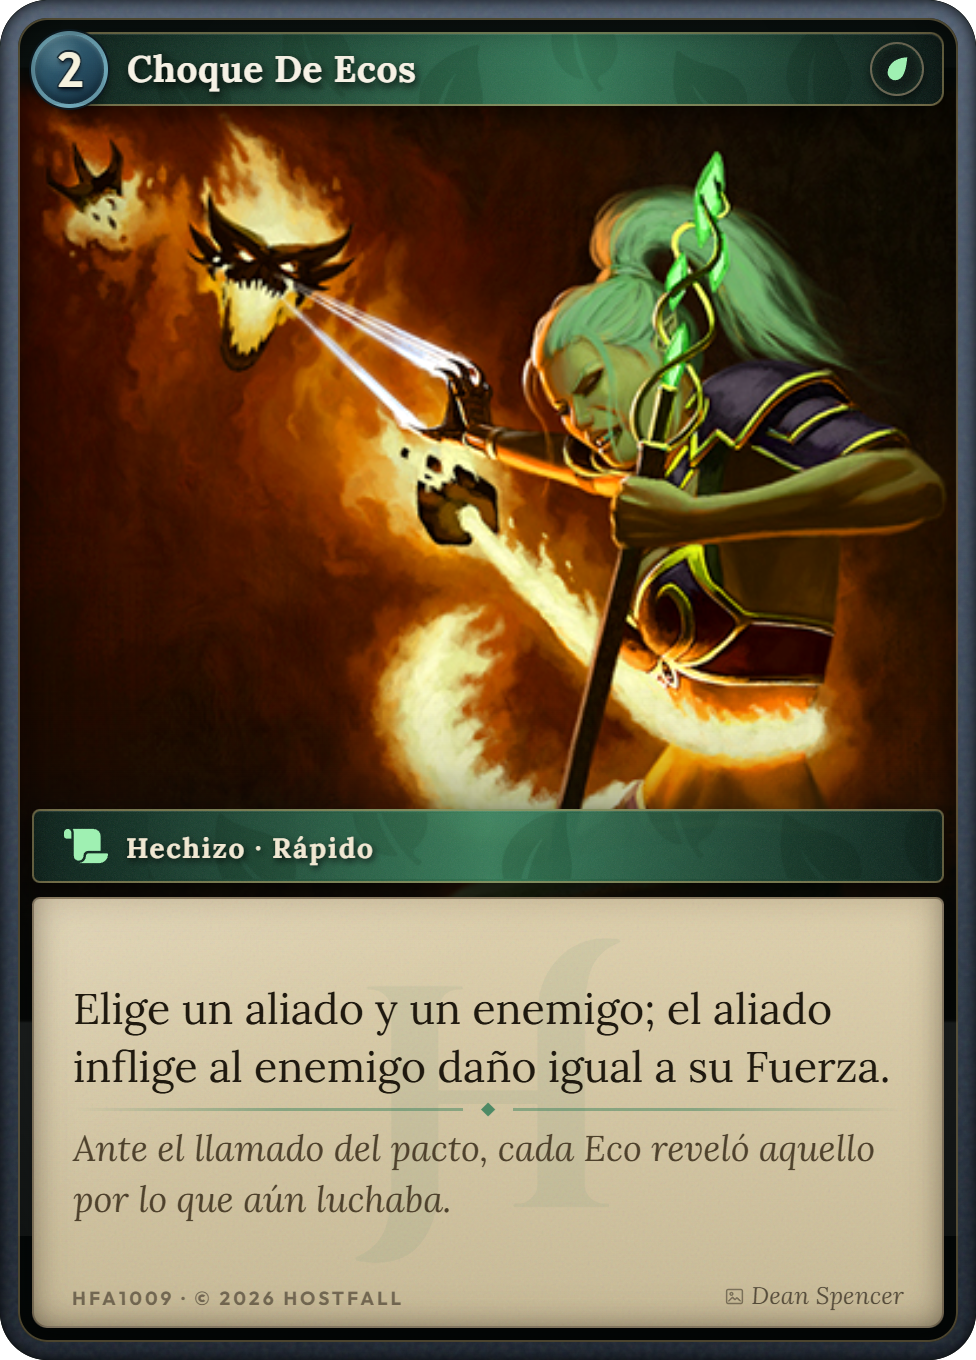
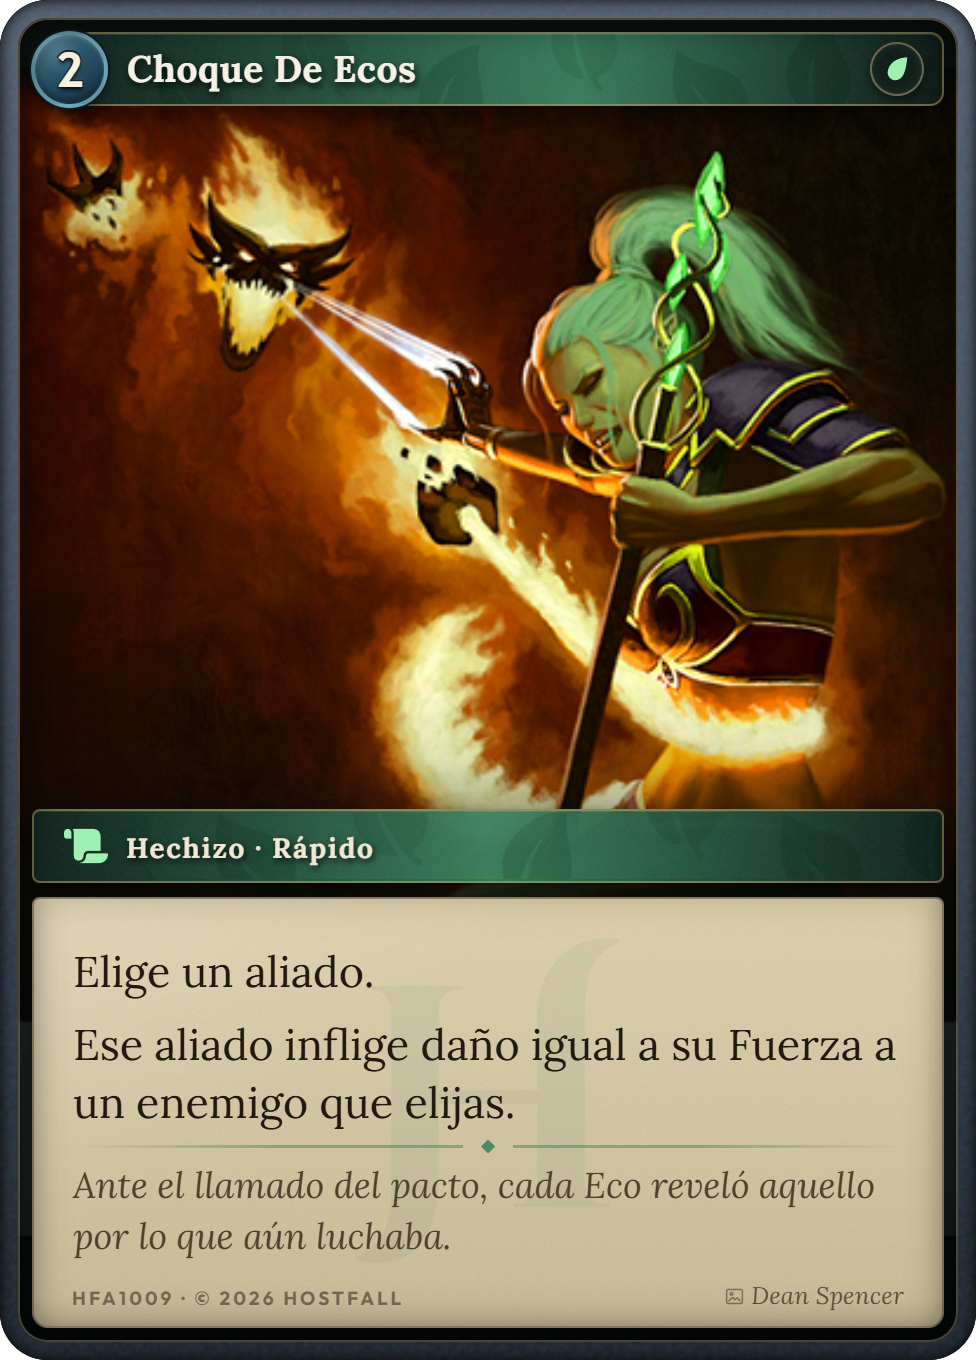
stable

Changed region(s): [[0.0615, 0.7103, 0.9221, 0.9265]]

diff --git a/tests/uiPresentation.test.js b/tests/uiPresentation.test.js
@@ -956,12 +956,14 @@ test("cards behind the front of a stack use the left combat-arrow anchor", () =>
   assert.equal(isBehindInStackOrder(front, [front]), false);
 });
 
-test("combat arrows never clip their arrowhead or moving glint during entrance", () => {
+test("combat arrows reveal upward with padded edges before their glint starts", () => {
   const combatArrowsSource = readFileSync(new URL("../src/components/CombatArrows.tsx", import.meta.url), "utf8");
   const stylesSource = readFileSync(new URL("../src/styles.css", import.meta.url), "utf8");
 
-  assert.doesNotMatch(combatArrowsSource, /combat-arrow-reveal/u);
-  assert.doesNotMatch(stylesSource, /combat-arrow-reveal/u);
+  assert.match(combatArrowsSource, /<g className="combat-arrow-reveal">[\s\S]*?<TacticalArrowGlyph/u);
+  assert.match(stylesSource, /\.combat-arrow-reveal\s*\{[^}]*animation:\s*combat-arrow-reveal 320ms[^}]*both;/u);
+  assert.match(stylesSource, /\.combat-arrow-reveal \.tactical-arrow-glint\s*\{[^}]*animation-delay:\s*320ms;[^}]*animation-fill-mode:\s*backwards;/u);
+  assert.match(stylesSource, /@keyframes combat-arrow-reveal\s*\{[\s\S]*?to\s*\{\s*clip-path:\s*inset\(-32px\);/u);
 });
 
 test("card names and type lines use initial capitals on every word", () => {

diff --git a/tests/deckLint.test.js b/tests/deckLint.test.js
@@ -282,7 +282,7 @@ test("El Pacto de Elarion keeps Hostfall card kinds and traits through authored 
     maela_watcher_of_the_heights: "Sin efecto adicional.",
     echo_of_the_forgotten_city: "Sin efecto adicional.",
     vaelor_emerald_guardian: "Al ser invocado: pon un contador -1/-1 sobre cada enemigo.",
-    clash_of_echoes: "Elige un aliado y un enemigo; el aliado inflige al enemigo daño igual a su Fuerza.",
+    clash_of_echoes: "Elige un aliado. Ese aliado inflige daño igual a su Fuerza a un enemigo que elijas.",
     shield_of_the_heir: "Elige un aliado y un enemigo; el aliado gana +1/+2 hasta el final del turno. Después, ese aliado lucha contra ese enemigo.",
     the_judgment_of_elarion: "Elige un Apoyo enemigo o un Eco enemigo con Volar; destrúyelo.",
     elixir_of_the_first_leaf: "Elige un Eco; el Eco elegido gana +3/+3 hasta el final del turno.",

diff --git a/src/styles.css b/src/styles.css
@@ -11214,8 +11214,27 @@
   }
 }
 
+.combat-arrow-reveal {
+  animation: combat-arrow-reveal 320ms cubic-bezier(0.16, 1, 0.3, 1) both;
+}
+
+.combat-arrow-reveal .tactical-arrow-glint {
+  animation-delay: 320ms;
+  animation-fill-mode: backwards;
+}
+
 .combat-arrow-pulse {
   animation: combat-arrow-pulse 1.25s ease-in-out infinite;
+}
+
+@keyframes combat-arrow-reveal {
+  from {
+    clip-path: inset(calc(100% + 32px) -32px -32px -32px);
+  }
+
+  to {
+    clip-path: inset(-32px);
+  }
 }
 
 @keyframes auto-paid-land-pulse {
@@ -14909,6 +14928,7 @@
 }
 
 @media (prefers-reduced-motion: reduce) {
+  .combat-arrow-reveal { animation: none; clip-path: none; }
   .tactical-arrow-glint { animation: none; }
 
   .host-attacker-readied .battlefield-attack-chevron-glint,

diff --git a/src/components/CombatArrows.tsx b/src/components/CombatArrows.tsx
@@ -168,7 +168,9 @@ export function CombatArrows({ game, hiddenDefenseLinkIds }: { game: GameState; 
             exit={{ opacity: 0, scale: 0.96 }}
             transition={{ duration: 0.28, ease: "easeOut" }}
           >
-            <TacticalArrowGlyph curve={arrow.curve} color={arrow.color} />
+            <g className="combat-arrow-reveal">
+              <TacticalArrowGlyph curve={arrow.curve} color={arrow.color} />
+            </g>
           </motion.g>
           );
         })}

diff --git a/dev/tools/Decks/pact_of_elarion/deck-data.generated.js b/dev/tools/Decks/pact_of_elarion/deck-data.generated.js
@@ -191,7 +191,7 @@ window.HostfallDeckData = {
         "costo": 2,
         "atk": null,
         "def": null,
-        "desc": "Elige un aliado y un enemigo; el aliado inflige al enemigo daño igual a su Fuerza.",
+        "desc": "Elige un aliado. Ese aliado inflige daño igual a su Fuerza a un enemigo que elijas.",
         "lore": "Ante el llamado del pacto, cada Eco reveló aquello por lo que aún luchaba.",
         "showFlavorText": true,
         "cantidad": 2,

diff --git a/docs/reference/card_text_rules.md b/docs/reference/card_text_rules.md
@@ -24,7 +24,7 @@ Se omiten las partes vacías y su signo correspondiente.
 
 - `Al ser invocada: elige un aliado; pon un contador +1/+1 sobre ese aliado.`
 - `Agota esta carta; agrega {E}.`
-- `Elige un aliado y un enemigo; el aliado inflige al enemigo daño igual a su Fuerza.`
+- `Elige un aliado. Ese aliado inflige daño igual a su Fuerza a un enemigo que elijas.`
 
 El texto se resuelve de izquierda a derecha. Español e inglés deben conservar los mismos objetivos,
 cantidades, restricciones, orden y dependencias.
@@ -134,8 +134,8 @@ Elige un Apoyo enemigo o un Eco enemigo con Volar; destrúyelo.
 
 - Energía: `Agota esta carta; agrega {E}.`
 - Coste combinado: `Agota esta carta y paga 5 de Vida; agrega {E}.`
-- Daño por Fuerza: `Elige un aliado y un enemigo; el aliado inflige al enemigo daño igual a su
-  Fuerza.`
+- Daño por Fuerza: `Elige un aliado. Ese aliado inflige daño igual a su Fuerza a un enemigo que
+  elijas.`
 - Mejora y lucha: `Elige un aliado y un enemigo; el aliado gana +1/+2 hasta el final del turno.
   Después, ese aliado lucha contra ese enemigo.`
 - Contador colectivo de entrada: `Al ser invocado: pon un contador -1/-1 sobre cada enemigo.`
